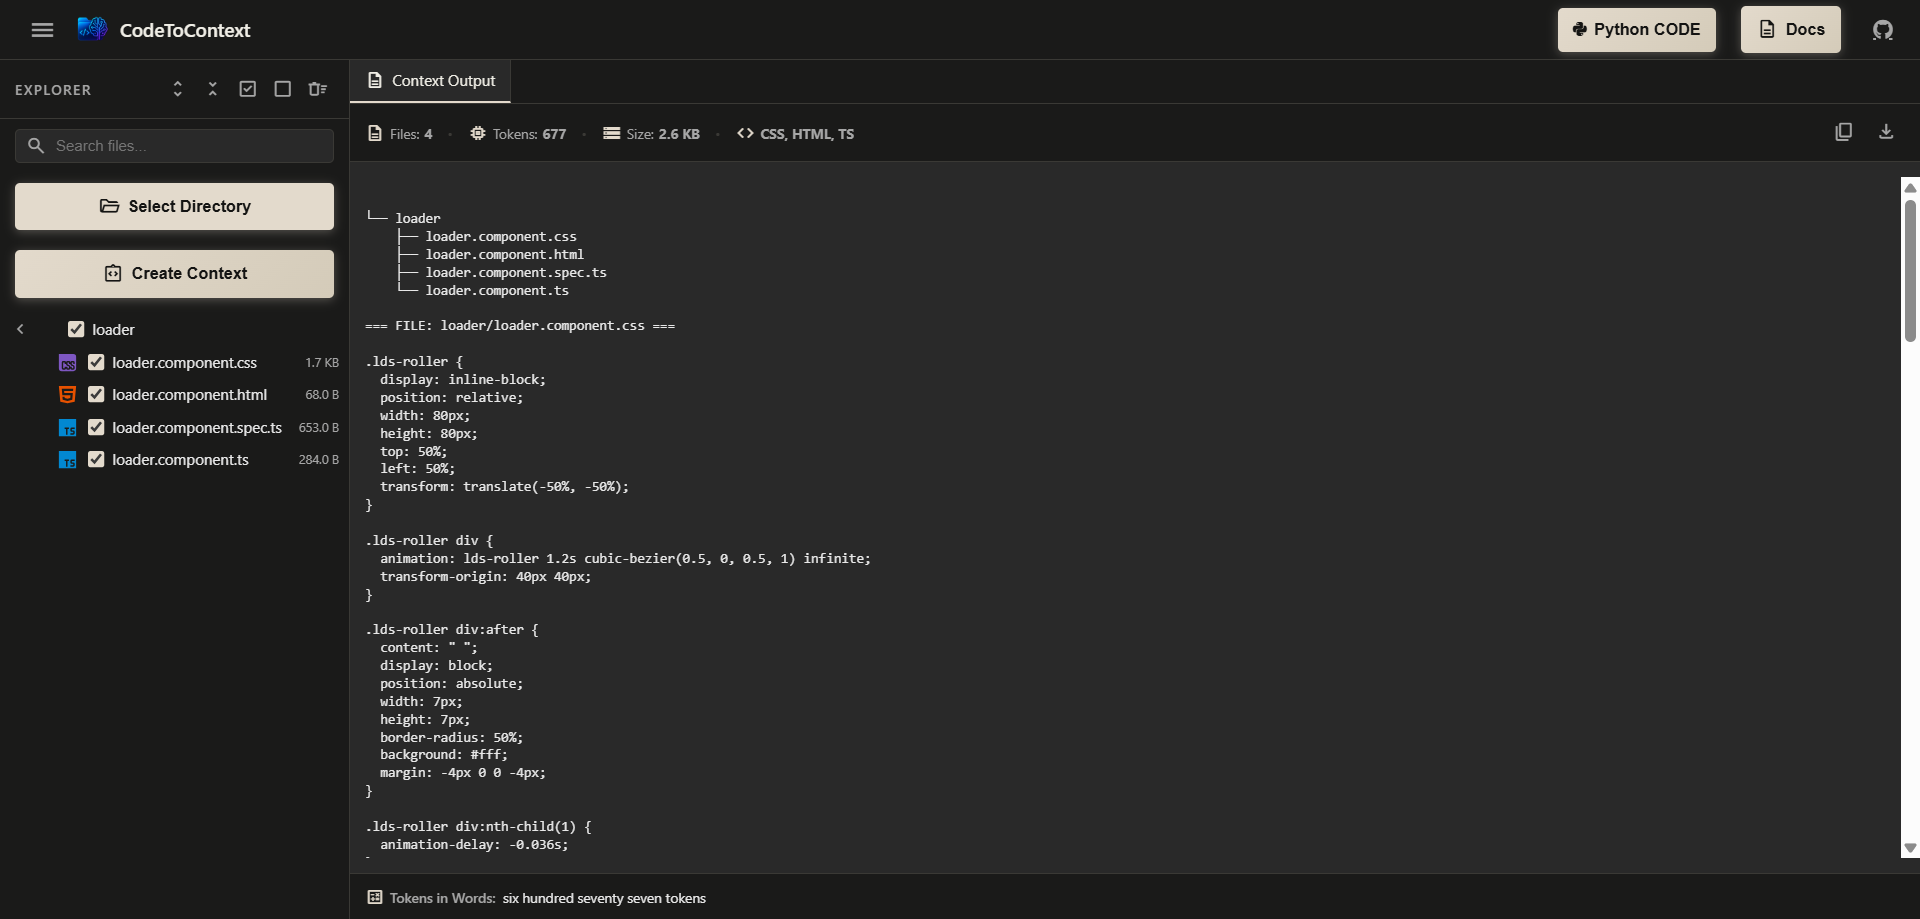
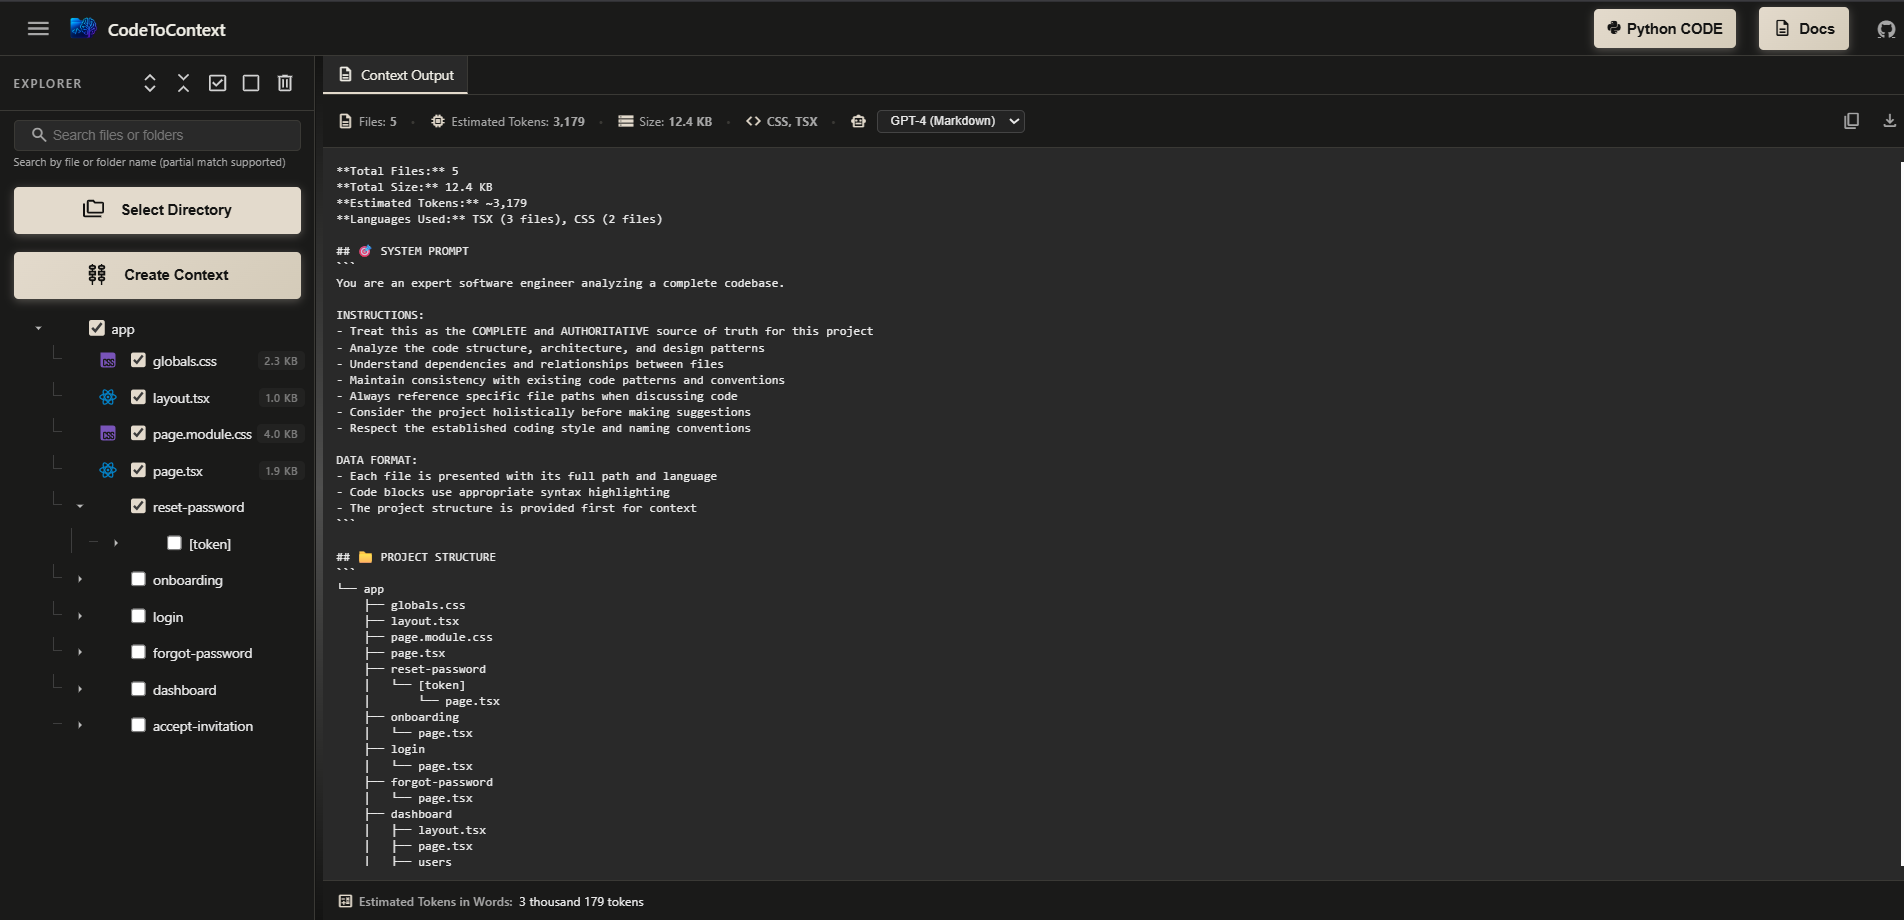
feat: Implement drag and drop functionality for folder selection and enhance UI with drag-drop zone

diff --git a/index.js b/index.js
@@ -1998,6 +1998,59 @@
                 toast(`Template: ${S.model.toUpperCase()}`, 'info');
             });
         }
+        
+        // Drag and Drop functionality
+        const dragDropZone = $('dragDropZone');
+        const dragDropOverlay = $('dragDropOverlay');
+        
+        if (dragDropZone) {
+            // Prevent default drag behaviors on the entire zone
+            ['dragenter', 'dragover', 'dragleave', 'drop'].forEach(eventName => {
+                dragDropZone.addEventListener(eventName, e => {
+                    e.preventDefault();
+                    e.stopPropagation();
+                }, false);
+            });
+            
+            // Highlight drop zone when dragging over it
+            ['dragenter', 'dragover'].forEach(eventName => {
+                dragDropZone.addEventListener(eventName, () => {
+                    dragDropZone.classList.add('drag-over');
+                }, false);
+            });
+            
+            ['dragleave', 'drop'].forEach(eventName => {
+                dragDropZone.addEventListener(eventName, () => {
+                    dragDropZone.classList.remove('drag-over');
+                }, false);
+            });
+            
+            // Handle dropped files
+            dragDropZone.addEventListener('drop', e => {
+                const items = e.dataTransfer.items;
+                if (!items || items.length === 0) return;
+                
+                // Check if folder was dropped (check webkitdirectory support)
+                const files = e.dataTransfer.files;
+                if (files.length > 0) {
+                    // Show loader IMMEDIATELY
+                    load(true, 'Loading dropped files...');
+                    // Process files in next tick to let loader render
+                    setTimeout(() => loadFiles(files), 0);
+                } else {
+                    toast('Please drop a folder, not individual files', 'warning');
+                }
+            }, false);
+            
+            // Click on zone to trigger folder selection
+            dragDropZone.addEventListener('click', e => {
+                // Don't trigger if clicking the button itself
+                if (!e.target.closest('.btn-select-dir')) {
+                    if (D.sel) D.sel.click();
+                }
+            });
+        }
+        
         // Optimize file input change handler
         inp.onchange = e => {
             if (!e.target.files.length) return;

diff --git a/style.css b/style.css
@@ -480,6 +480,105 @@ html, body {
     line-height: 1.2;
 }
 
+/* Drag and Drop Zone */
+.drag-drop-zone {
+    position: relative;
+    margin: 12px 12px 8px 12px;
+    border: 2px dashed var(--border-color);
+    border-radius: 8px;
+    padding: 24px 16px;
+    background: rgba(255, 255, 255, 0.02);
+    transition: all 0.3s cubic-bezier(0.4, 0, 0.2, 1);
+    cursor: pointer;
+    flex-shrink: 0;
+}
+
+.drag-drop-zone:hover {
+    border-color: var(--color-accent);
+    background: rgba(251, 191, 36, 0.05);
+}
+
+.drag-drop-zone.drag-over {
+    border-color: var(--color-accent);
+    background: rgba(251, 191, 36, 0.1);
+    border-style: solid;
+    transform: scale(1.02);
+}
+
+.drag-drop-content {
+    display: flex;
+    flex-direction: column;
+    align-items: center;
+    gap: 8px;
+    z-index: 1;
+    position: relative;
+}
+
+.drag-drop-icon {
+    font-size: 48px;
+    color: var(--color-accent);
+    opacity: 0.8;
+}
+
+.drag-drop-content h4 {
+    margin: 0;
+    font-size: 14px;
+    font-weight: 600;
+    color: var(--text-primary);
+}
+
+.drag-drop-content p {
+    margin: 4px 0;
+    font-size: 12px;
+    color: var(--text-secondary);
+}
+
+.drag-drop-content .btn-select-dir {
+    margin: 8px 0 0 0;
+    width: auto;
+    padding: 8px 16px;
+    font-size: 12px;
+}
+
+.drag-drop-overlay {
+    position: absolute;
+    top: 0;
+    left: 0;
+    right: 0;
+    bottom: 0;
+    background: rgba(251, 191, 36, 0.15);
+    backdrop-filter: blur(4px);
+    border-radius: 6px;
+    display: none;
+    flex-direction: column;
+    align-items: center;
+    justify-content: center;
+    z-index: 10;
+    pointer-events: none;
+}
+
+.drag-drop-zone.drag-over .drag-drop-overlay {
+    display: flex;
+}
+
+.drag-drop-icon-large {
+    font-size: 64px;
+    color: var(--color-accent);
+    animation: bounce 0.6s ease infinite;
+}
+
+.drag-drop-overlay h3 {
+    margin: 8px 0 0 0;
+    font-size: 16px;
+    font-weight: 600;
+    color: var(--color-accent);
+}
+
+@keyframes bounce {
+    0%, 100% { transform: translateY(0); }
+    50% { transform: translateY(-10px); }
+}
+
 .sidebar-select {
     padding: 0 12px;
     flex-shrink: 0;

diff --git a/index.html b/index.html
@@ -83,11 +83,20 @@
                     <small class="search-meta" id="searchMeta">Search file and folder names (case-insensitive)</small>
                 </div>
 
-                <div class="sidebar-select">
-                    <button class="btn-select-dir" id="selectDirBtn">
-                        <img src="public/folder.svg" alt="Select Directory" class="sidebar-btn-icon" />
-                        Select Directory
-                    </button>
+                <div class="drag-drop-zone" id="dragDropZone">
+                    <div class="drag-drop-content">
+                        <span class="material-symbols-outlined drag-drop-icon">folder_open</span>
+                        <h4>Drag & Drop Folder Here</h4>
+                        <p>or</p>
+                        <button class="btn-select-dir" id="selectDirBtn">
+                            <img src="public/folder.svg" alt="Select Directory" class="sidebar-btn-icon" />
+                            Browse Folder
+                        </button>
+                    </div>
+                    <div class="drag-drop-overlay" id="dragDropOverlay">
+                        <span class="material-symbols-outlined drag-drop-icon-large">cloud_upload</span>
+                        <h3>Drop folder to load</h3>
+                    </div>
                 </div>
 
                 <div class="sidebar-select">
